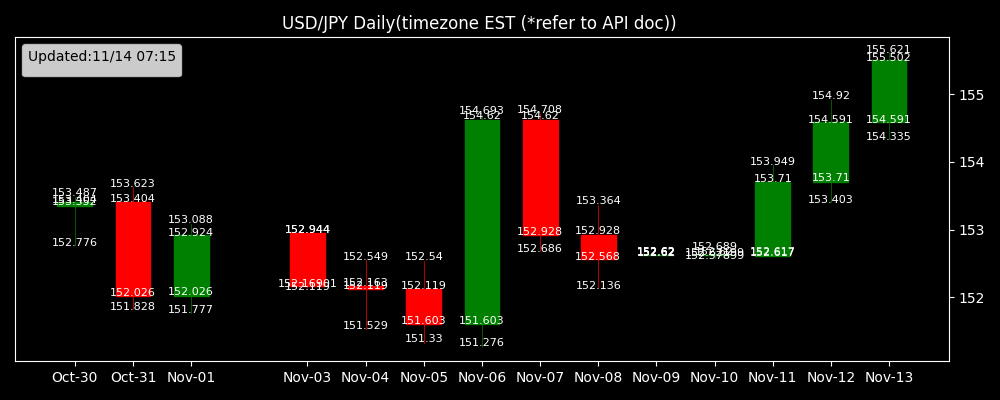
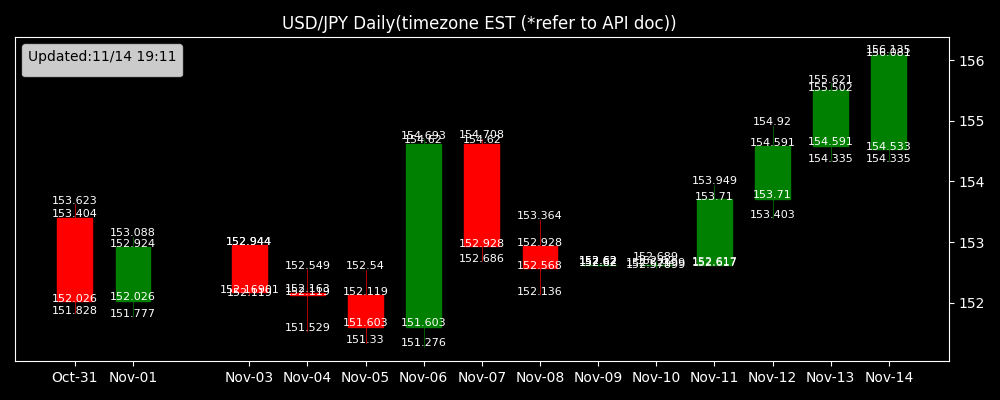
deploy: 309d9fe365ff5a8b398e9f715351abe7d9970f7d

diff --git a/docs/src/dashboard/marketinfo.html b/docs/src/dashboard/marketinfo.html
@@ -14,14 +14,12 @@
     </style>
 </head>
 <body>
-    <h3> 概況 (更新： 11/14 07:15 ) </h3>
-    <p>ここ最近の為替市場の状況を分析すると、段階的な上昇傾向が見られるようです。2024年10月末から11月13日までのデータによると、全体として徐々に上昇しているように見えます。特に、11月6日に大きな取引量（約105万株）によって価格が上昇し、154.62で引けていることは注目に値します。この動きは、市場に何らかの重要なニュースやイベントがあった可能性を示唆しています。
+    <h3> 概況 (更新： 11/14 19:11 ) </h3>
+    <p>以下の為替状況を考察すると、直近の期間において、過去二週間の為替レートは上昇傾向にあると捉えることができる。具体的には、2024年11月1日から2024年11月14日までの間に、為替レートは152.924から156.081まで上昇している。これは、おそらく市場での需要増加が一因と考えられるが、具体的な要因としては複数の要素が絡んでいる可能性がある。
 
-また、11月13日に155.502で終値を迎えており、11月12日と比較して上昇しています。この期間に関連するニュースとして、米国の経済指標の発表や中央銀行の金融政策の変更が影響を与えているかもしれません。
+ニュース情報を考慮すると、最近の主要な経済指標の発表や地政学的なイベントが影響を与えた可能性がある。例えば、中央銀行の金融政策の変化、経済成長の指標、または貿易関係の進展がこの上昇トレンドを支えているかもしれない。加えて、2024年11月6日と11月7日のように取引量が大きい日があり、これは特定の市場イベントやアナリストの予測修正が影響した可能性を示唆している。
 
-取引量の変動も注目すべきポイントであり、特に取引量が増加する日には大きな価格変動が伴っている傾向があります。これは市場参加者の関心が高まり、取引が活発化していることを示唆します。
-
-ただし、予測を立てるにあたっては、特定の経済イベントや地政学的リスクなどが新たな変動要因になる可能性があるため、これからの動向については慎重に観察する必要があります。</p>
+しかしながら、為替市場は常に変動を伴うため、この上昇傾向が将来も続くかどうかは不透明であり、さらなる市場動向の監視が必要である。今後の政策決定や経済指標の公表がどのように影響を与えるかについて、予測は慎重を要する。</p>
 
     <p>Text generated from ChatGPT API.</p>
 

diff --git a/docs/src/dashboard/forecast_text.html b/docs/src/dashboard/forecast_text.html
@@ -6,15 +6,7 @@
 </head>
 <body>
     <h3>今日の天気 (11-14 Thu)</h3>
-    <p>今日の天気をお知らせします。
-
-場所: 東京 (緯度: 35.65, 経度: 139.75)  
-天気: 主に晴れ、一日を通して降水はありません。  
-気温: 最高気温は18.8°C、最低気温は11.4°Cです。  
-日照時間: 約8.6時間 (31026.11秒)  
-UV index: 最大で2.3  
-
-日傘の必要性についてですが、UVインデックスが2.3とあまり高くありません。このため、日常的な外出には日傘は必須ではありませんが、長時間屋外にいる場合や紫外線対策を特に重視する方は使用を検討しても良いでしょう。</p>
-    (更新：11/14 07:15)
+    <p>今日の天気は、基本的に晴れで雨の心配はありません。気温は最低11.4°Cから最高18.9°Cまで上がります。日中の日照時間は約7.6時間（27,430.62秒）です。UV指数は最大で2.05となっていますので、日焼けの心配は少なく、日傘は必要ないでしょう。ただし、肌が敏感な方は注意してください。</p>
+    (更新：11/14 19:11)
 
 </html>
